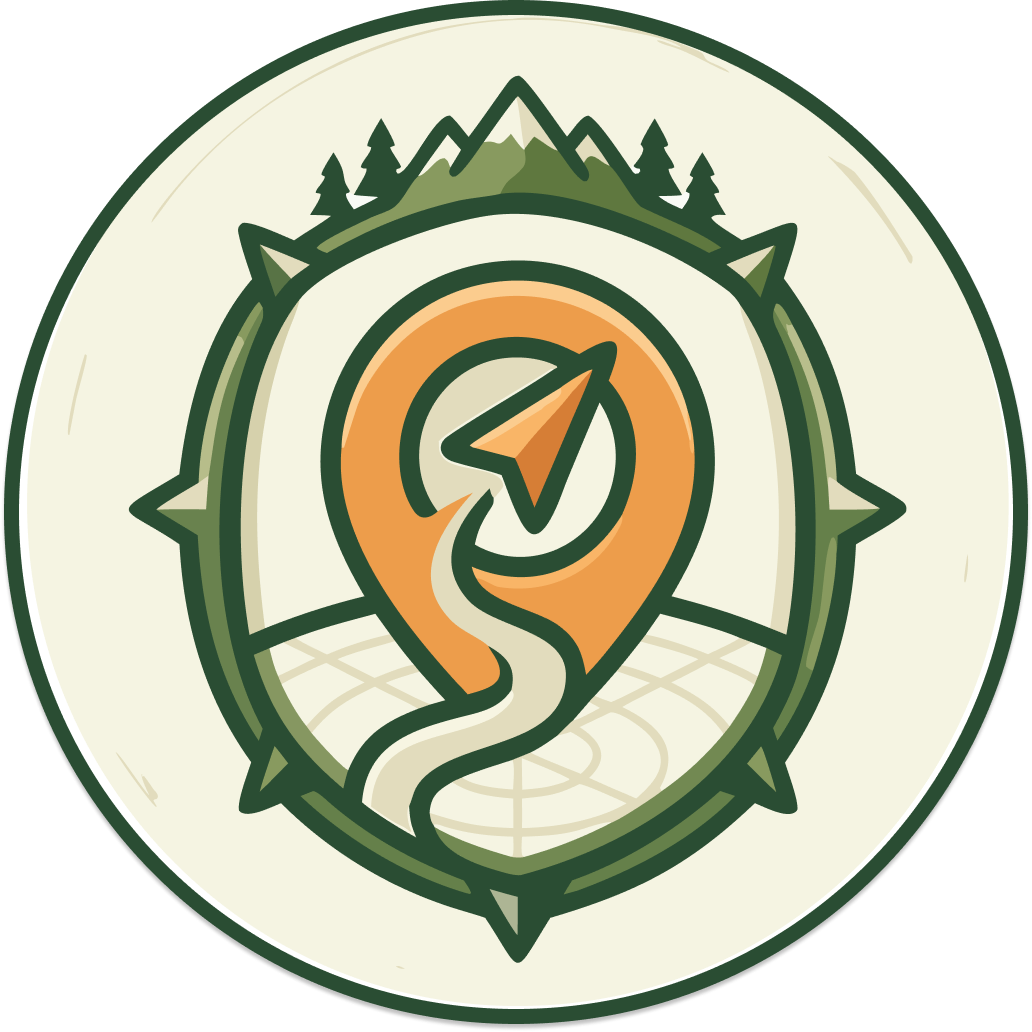
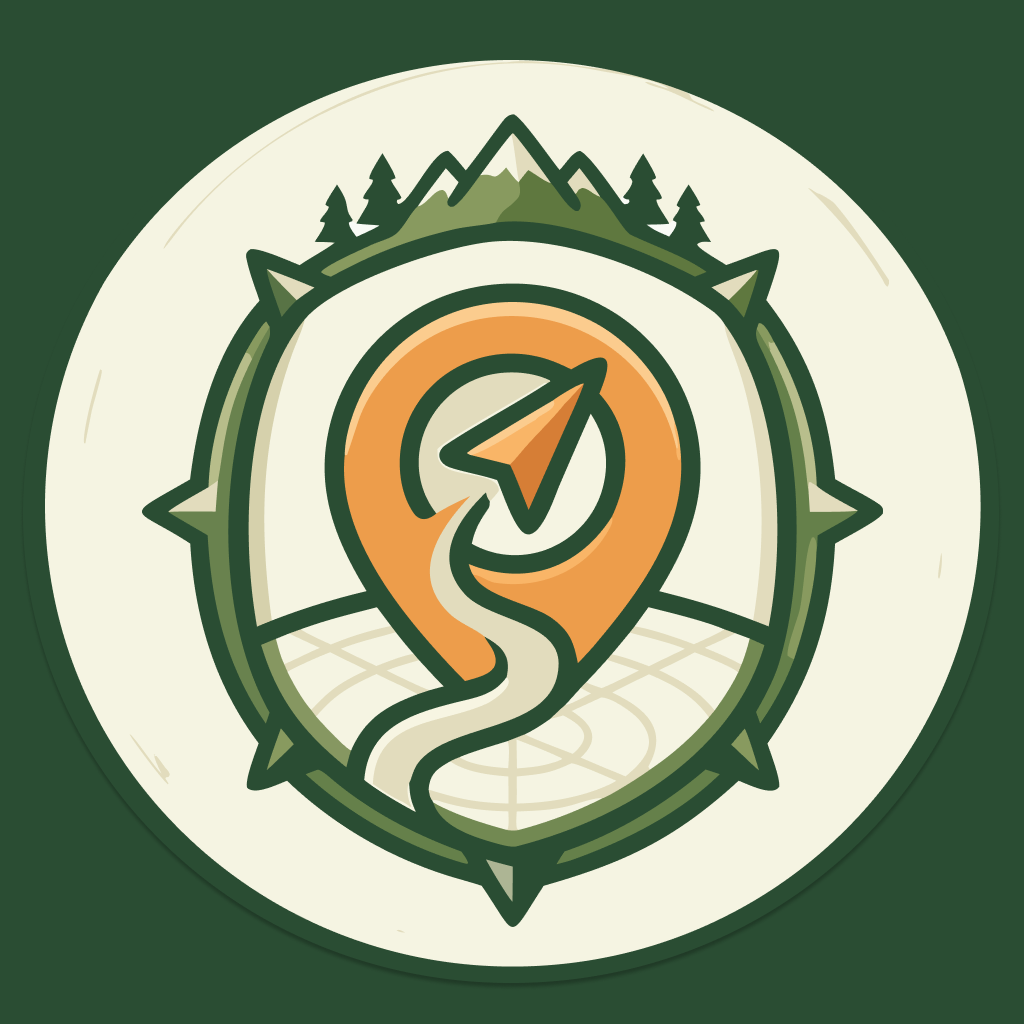
switching auth, updating privacy policy

diff --git a/app/(app)/profile.tsx b/app/(app)/profile.tsx
@@ -48,7 +48,7 @@ export default function ProfileScreen() {
             try {
               await stopLocationTracking();
               await deleteAccount(user!.uid);
-              // AuthContext listener handles redirect to /(auth)/phone
+              // AuthContext listener handles redirect to /(auth)/login
             } catch (err) {
               Alert.alert('Error', friendlyError(err));
               setDeleting(false);
@@ -68,9 +68,9 @@ export default function ProfileScreen() {
       <View style={styles.container}>
         <Text style={styles.title}>Profile</Text>
 
-        <View style={styles.phoneRow}>
-          <Text style={styles.phoneLabel}>PHONE NUMBER</Text>
-          <Text style={styles.phoneValue}>{user?.phoneNumber ?? '—'}</Text>
+        <View style={styles.emailRow}>
+          <Text style={styles.emailLabel}>EMAIL</Text>
+          <Text style={styles.emailValue}>{user?.email ?? '—'}</Text>
         </View>
 
         <Input
@@ -117,21 +117,21 @@ const styles = StyleSheet.create({
   backText: { color: Colors.primary, fontSize: 16 },
   container: { flex: 1, paddingHorizontal: 24, paddingTop: 16, gap: 16 },
   title: { fontSize: 28, fontWeight: '800', color: Colors.text, marginBottom: 8 },
-  phoneRow: {
+  emailRow: {
     backgroundColor: Colors.surface,
     borderRadius: 12,
     padding: 16,
     borderWidth: 1,
     borderColor: Colors.border,
   },
-  phoneLabel: {
+  emailLabel: {
     fontSize: 11,
     color: Colors.textSecondary,
     fontWeight: '700',
     letterSpacing: 0.5,
     marginBottom: 4,
   },
-  phoneValue: { fontSize: 18, fontWeight: '600', color: Colors.text },
+  emailValue: { fontSize: 16, fontWeight: '600', color: Colors.text },
   hint: { fontSize: 13, color: Colors.textSecondary, lineHeight: 18, marginTop: -8 },
   divider: {
     height: 1,

diff --git a/docs/privacy.html b/docs/privacy.html
@@ -21,7 +21,7 @@
 
   <h2>1. Data We Collect</h2>
   <ul>
-    <li><strong>Phone number</strong> — used solely for SMS-based authentication. We do not call you or share your number with marketers.</li>
+    <li><strong>Email address</strong> — used for account authentication and password resets. We do not send marketing emails or share your address with third parties.</li>
     <li><strong>Display name</strong> — the name you choose when joining a game, visible to your Game Master and other participants.</li>
     <li><strong>Precise GPS location</strong> — collected continuously (foreground and background) while you are actively participating in a game. Location is shared in real time with the Game Master(s) of your current game session only.</li>
     <li><strong>Device push token</strong> — used to deliver push notifications (e.g., checkpoint arrival alerts). The token is stored in our database and associated with your game membership.</li>
@@ -29,16 +29,16 @@
 
   <h2>2. How We Use Your Data</h2>
   <ul>
-    <li><strong>Authentication</strong> — your phone number verifies your identity via a one-time SMS code.</li>
+    <li><strong>Authentication</strong> — your email and password are used to sign in to your account. Password reset emails are sent to your address on request.</li>
     <li><strong>Gameplay</strong> — your location is displayed on the Game Master's map and checked against checkpoint geofences to trigger arrival alerts.</li>
-    <li><strong>Notifications</strong> — push notifications inform Game Masters of checkpoint arrivals. Optional SMS alerts are sent to GM phone numbers via Twilio.</li>
+    <li><strong>Notifications</strong> — push notifications inform Game Masters of checkpoint arrivals.</li>
   </ul>
 
   <h2>3. Third-Party Services</h2>
   <ul>
     <li><strong>Google Firebase</strong> (Authentication, Cloud Firestore, Cloud Functions, Cloud Messaging) — processes and stores your data. <a href="https://firebase.google.com/support/privacy">Firebase Privacy Policy</a></li>
     <li><strong>Google Maps SDK</strong> — renders maps in the app. Google may collect anonymized usage data. <a href="https://policies.google.com/privacy">Google Privacy Policy</a></li>
-    <li><strong>Twilio</strong> — delivers SMS alerts to Game Masters when configured. <a href="https://www.twilio.com/legal/privacy">Twilio Privacy Policy</a></li>
+    <li><strong>Firebase Crashlytics</strong> — collects anonymous crash reports to help us fix bugs. <a href="https://firebase.google.com/support/privacy">Firebase Privacy Policy</a></li>
     <li><strong>Expo / EAS</strong> — build and update infrastructure. <a href="https://expo.dev/privacy">Expo Privacy Policy</a></li>
   </ul>
 

diff --git a/constants/index.ts b/constants/index.ts
@@ -1,3 +1,3 @@
-export const PRIVACY_POLICY_URL = 'https://tuscola16.github.io/HungerGamesLocator/privacy.html';
-export const TERMS_URL = 'https://tuscola16.github.io/HungerGamesLocator/terms.html';
-export const SUPPORT_URL = 'https://tuscola16.github.io/HungerGamesLocator/support.html';
+export const PRIVACY_POLICY_URL = 'https://tuscola16.github.io/OutdoorGM/privacy.html';
+export const TERMS_URL = 'https://tuscola16.github.io/OutdoorGM/terms.html';
+export const SUPPORT_URL = 'https://tuscola16.github.io/OutdoorGM/support.html';

diff --git a/app/(app)/gm/[gameId]/players.tsx b/app/(app)/gm/[gameId]/players.tsx
@@ -67,7 +67,7 @@ export default function PlayersScreen() {
 
         <View style={styles.info}>
           <Text style={styles.name}>{item.displayName}</Text>
-          <Text style={styles.phone}>{item.phoneNumber}</Text>
+          <Text style={styles.email}>{item.email}</Text>
         </View>
 
         <View style={[styles.badge, isGM ? styles.gmBadge : styles.playerBadge]}>
@@ -164,7 +164,7 @@ const styles = StyleSheet.create({
   avatarText: { fontSize: 16, fontWeight: '800', color: Colors.text },
   info: { flex: 1 },
   name: { fontSize: 15, fontWeight: '700', color: Colors.text },
-  phone: { fontSize: 12, color: Colors.textSecondary, marginTop: 1 },
+  email: { fontSize: 12, color: Colors.textSecondary, marginTop: 1 },
   badge: {
     borderRadius: 6,
     paddingHorizontal: 7,

diff --git a/services/gameService.ts b/services/gameService.ts
@@ -66,13 +66,13 @@ export async function joinGame(
   userId: string,
   role: 'player' | 'gm',
   displayName: string,
-  phoneNumber: string,
+  email: string,
   fcmToken?: string
 ): Promise<void> {
   const memberData: Omit<GameMember, 'userId'> = {
     role,
     displayName,
-    phoneNumber,
+    email,
     fcmToken,
     joinedAt: firestore.FieldValue.serverTimestamp() as any,
   };

diff --git a/types/index.ts b/types/index.ts
@@ -5,7 +5,7 @@ export type GameStatus = 'active' | 'ended';
 
 export interface UserProfile {
   id: string;
-  phoneNumber: string;
+  email: string;
   displayName: string;
   fcmToken?: string;
   createdAt: FirebaseFirestoreTypes.Timestamp;
@@ -35,7 +35,7 @@ export interface GameMember {
   userId: string;
   role: UserRole;
   displayName: string;
-  phoneNumber: string;
+  email: string;
   fcmToken?: string;
   joinedAt: FirebaseFirestoreTypes.Timestamp;
 }

diff --git a/app/(app)/gm/create.tsx b/app/(app)/gm/create.tsx
@@ -28,7 +28,7 @@ export default function CreateGameScreen() {
     try {
       const game = await createGame(gameName, user.uid);
       const fcmToken = await getFcmToken();
-      await joinGame(game.id, user.uid, 'gm', displayName.trim(), user.phoneNumber ?? '', fcmToken ?? undefined);
+      await joinGame(game.id, user.uid, 'gm', displayName.trim(), user.email ?? '', fcmToken ?? undefined);
       router.replace(`/(app)/gm/${game.id}`);
     } catch (err: any) {
       setError(err.message ?? 'Failed to create game');

diff --git a/app/(app)/join.tsx b/app/(app)/join.tsx
@@ -44,7 +44,7 @@ export default function JoinScreen() {
         user.uid,
         result.role,
         displayName.trim(),
-        user.phoneNumber ?? '',
+        user.email ?? '',
         fcmToken ?? undefined
       );
 

diff --git a/app/index.tsx b/app/index.tsx
@@ -13,7 +13,7 @@ export default function Index() {
     if (user) {
       router.replace('/(app)/games');
     } else {
-      router.replace('/(auth)/phone');
+      router.replace('/(auth)/login');
     }
   }, [user, loading]);
 

diff --git a/context/AuthContext.tsx b/context/AuthContext.tsx
@@ -28,7 +28,7 @@ export function AuthProvider({ children }: { children: React.ReactNode }) {
         const snap = await profileRef.get();
         if (!snap.exists) {
           const newProfile: Omit<UserProfile, 'id'> = {
-            phoneNumber: firebaseUser.phoneNumber ?? '',
+            email: firebaseUser.email ?? '',
             displayName: '',
             createdAt: firestore.FieldValue.serverTimestamp() as any,
           };

diff --git a/functions/src/geofence.ts b/functions/src/geofence.ts
@@ -126,7 +126,7 @@ export const onLocationUpdate = functions.firestore
     for (const gmDoc of gmsSnap.docs) {
       const gm = gmDoc.data();
       if (gm.fcmToken) gmTokens.push(gm.fcmToken as string);
-      if (gm.phoneNumber) gmPhones.push(gm.phoneNumber as string);
+      if (gm.phone) gmPhones.push(gm.phone as string);
     }
 
     // Fire notifications for each new arrival

diff --git a/services/locationTask.ts b/services/locationTask.ts
@@ -27,7 +27,7 @@ TaskManager.defineTask(LOCATION_TASK_NAME, async ({ data, error }) => {
   const displayName = await AsyncStorage.getItem(DISPLAY_NAME_KEY);
   if (!gameId) return;
 
-  await updatePlayerLocation(gameId, user.uid, displayName ?? user.phoneNumber ?? 'Player', {
+  await updatePlayerLocation(gameId, user.uid, displayName ?? user.email ?? 'Player', {
     latitude: location.coords.latitude,
     longitude: location.coords.longitude,
     accuracy: location.coords.accuracy ?? undefined,